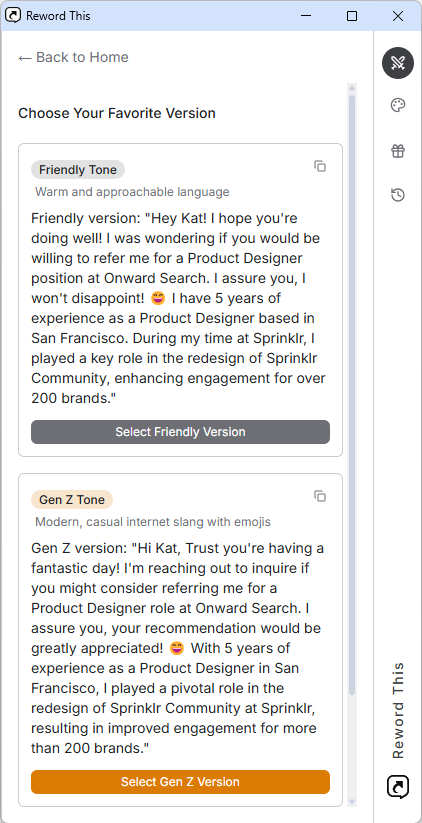
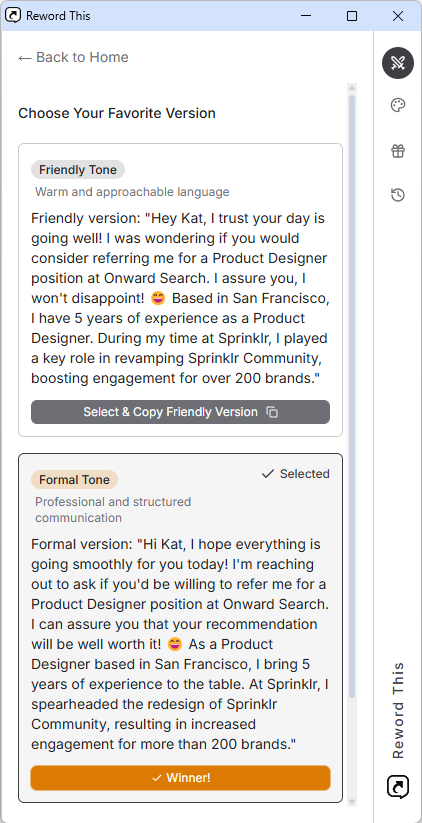
updated ability to save battle to history -- Checkpoint

Changed region(s): [[0.0308, 0.243, 0.8318, 0.9721], [0.7393, 0.1823, 0.7701, 0.2126], [0.4621, 0.243, 0.4929, 0.2734]]

diff --git a/src/components/RewriteBattle.tsx b/src/components/RewriteBattle.tsx
@@ -132,6 +132,10 @@ const RewriteBattle: React.FC<RewriteBattleProps> = ({ originalText, onRewriteAg
     setCopyToastMessage(`${version === 'A' ? tonePair.a.name : tonePair.b.name} version copied to clipboard!`);
     setShowCopyToast(true);
     
+    // Save selected version to history
+    const tone = version === 'A' ? tonePair.a.name.toLowerCase() : tonePair.b.name.toLowerCase();
+    saveToHistory(originalText, textToCopy, tone);
+    
     // Track battle in gameification system with explicit tone IDs
     if (version === 'A') {
       // Convert tone name to lowercase ID format for tracking
@@ -156,6 +160,36 @@ const RewriteBattle: React.FC<RewriteBattleProps> = ({ originalText, onRewriteAg
       // After selecting, return to input view
       onRewriteAgain()
     }, 1500) // Increased from 1000ms to 1500ms to give user more time to see selection
+  }
+
+  // Function to save to history (similar to the one in PopupView.tsx)
+  const saveToHistory = (original: string, rewritten: string, tone: string) => {
+    try {
+      const storedHistory = localStorage.getItem('reword-history')
+      const history = storedHistory ? JSON.parse(storedHistory) : []
+      
+      // Add new item to history
+      const newItem = {
+        id: `${Date.now()}-${Math.random().toString(36).substring(2, 9)}`,
+        originalText: original,
+        rewrittenText: rewritten,
+        tone: tone,
+        timestamp: Date.now()
+      }
+      
+      // Add to start of array (newest first)
+      const updatedHistory = [newItem, ...history].slice(0, 100) // Keep only the latest 100 items
+      
+      // Save back to localStorage
+      localStorage.setItem('reword-history', JSON.stringify(updatedHistory))
+      
+      // Dispatch event to notify other components
+      window.dispatchEvent(new Event('rewordHistoryUpdated'))
+      
+      console.log('Battle result saved to history');
+    } catch (error) {
+      console.error('Error saving to history:', error)
+    }
   }
 
   const toggleOriginalText = () => {
@@ -196,7 +230,7 @@ const RewriteBattle: React.FC<RewriteBattleProps> = ({ originalText, onRewriteAg
                   className={`px-4 py-2 rounded-md focus:outline-none focus:ring-2 focus:ring-accent/50 ${
                     !usageLimits.isPremium && usageLimits.battlesRemaining <= 0 
                       ? 'bg-muted text-muted-foreground cursor-not-allowed' 
-                      : 'bg-accent text-accent-foreground hover:bg-accent/90'
+                      : 'bg-primary text-accent-foreground hover:bg-accent/90'
                   }`}
                   disabled={!usageLimits.isPremium && usageLimits.battlesRemaining <= 0}
                 >
